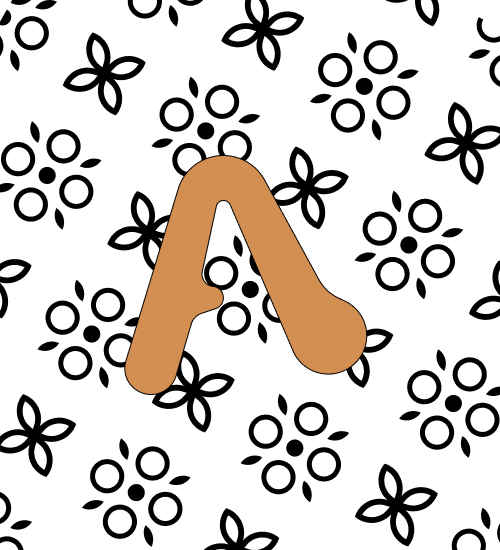
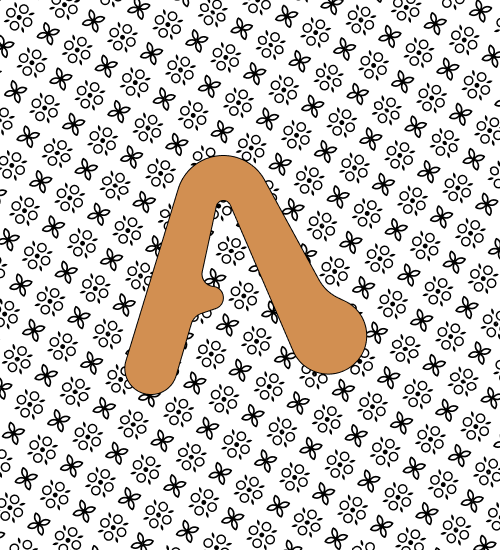
feat: dark mode

diff --git a/11_Website/js/script.js b/11_Website/js/script.js
@@ -141,13 +141,10 @@ window.addEventListener('scroll', () => {
 document.addEventListener("DOMContentLoaded", function () {
     const toggleButtons = document.querySelectorAll(".toggle-dark-mode");
     const body = document.body;
-    const aboutImage = document.getElementById("about-image"); // Pilih gambar berdasarkan ID
 
     // Cek apakah ada preferensi dark mode di Local Storage
     if (localStorage.getItem("darkMode") === "enabled") {
         body.classList.add("dark-mode");
-        // Ganti gambar sesuai mode gelap
-        aboutImage.src = "11_Bahan/assets/about-image-1.png";
         // Update ikon untuk dark mode aktif
         toggleButtons.forEach(button => {
             const icon = button.querySelector("i");
@@ -156,8 +153,6 @@ document.addEventListener("DOMContentLoaded", function () {
         });
     } else {
         body.classList.remove("dark-mode");
-        // Ganti gambar untuk mode terang
-        aboutImage.src = "11_Bahan/assets/about-image-2.png";
         // Update ikon untuk mode terang
         toggleButtons.forEach(button => {
             const icon = button.querySelector("i");
@@ -174,13 +169,11 @@ document.addEventListener("DOMContentLoaded", function () {
             // Ganti gambar sesuai mode
             if (body.classList.contains("dark-mode")) {
                 localStorage.setItem("darkMode", "enabled");
-                aboutImage.src = "11_Bahan/assets/about-image-1.png"; // Gambar mode gelap
                 const icon = button.querySelector("i");
                 icon.classList.remove("fa-moon");
                 icon.classList.add("fa-sun");
             } else {
                 localStorage.setItem("darkMode", "disabled");
-                aboutImage.src = "11_Bahan/assets/about-image-2.png"; // Gambar mode terang
                 const icon = button.querySelector("i");
                 icon.classList.remove("fa-sun");
                 icon.classList.add("fa-moon");

diff --git a/index.html b/index.html
@@ -247,7 +247,8 @@
             <div class="row gap-large gap-sm-n">
                 <div class="col-5 col-sm-12">
                     <div class="img-hero-container">
-                        <img class="img-about" src="11_Bahan/assets/about-image-2.png" alt="Gambar Tentang Arsanta">
+                        <img id="about-image-light" class="img-about" src="11_Bahan/assets/about-image-1.png" alt="Gambar Tentang Arsanta" />
+                        <img id="about-image-dark" class="img-about" src="11_Bahan/assets/about-image-2.png" alt="Gambar Tentang Arsanta" />
                         <div class="img-caption">
                             Arsanta: Kegembiraan dalam Menjelajahi dan Melestarikan Warisan Budaya.
                         </div>

diff --git a/11_Website/css/style.css b/11_Website/css/style.css
@@ -715,6 +715,19 @@ footer .container {
     padding-top: .5rem; /* Tambahkan padding untuk spasi */
 }
 
+/* Gambar default, tampilkan untuk mode biasa */
+#about-image-dark {
+    display: none;
+}
+
+/* Tampilkan gambar untuk mode gelap */
+body.dark-mode #about-image-light {
+    display: none;
+}
+
+body.dark-mode #about-image-dark {
+    display: block;
+}
 
 /* icon */
 .icon {
